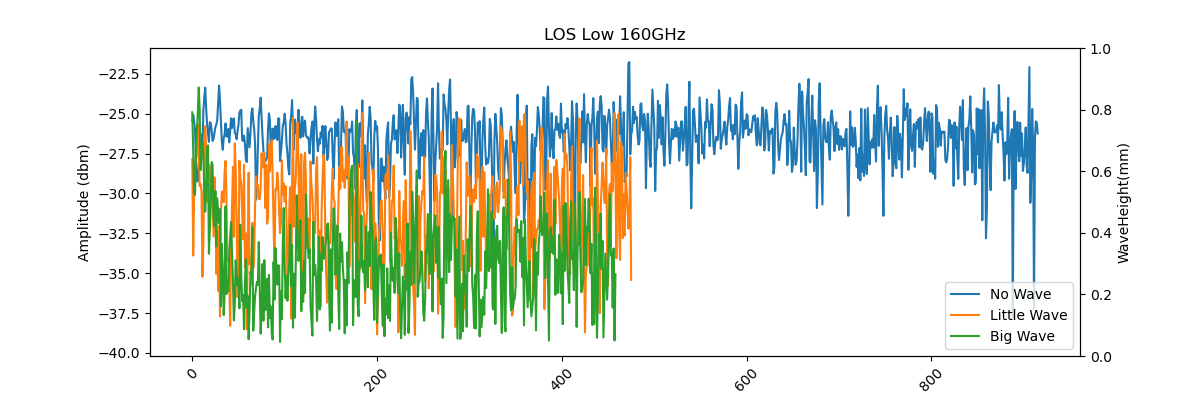
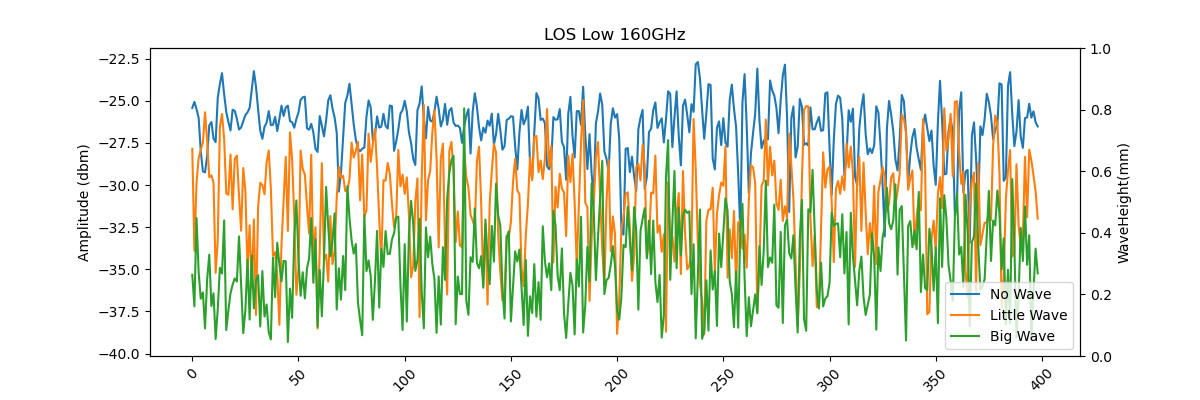
update indoor pool

diff --git a/swimming_pool.py b/swimming_pool.py
@@ -165,18 +165,18 @@ def read_all_data():
 
 
 def plot_data_list(data_list, title, save_path=None):
-    # make this figure wider
     plt.rcParams['figure.figsize'] = [12, 4]
     fig, ax1 = plt.subplots()
     ax2 = ax1.twinx()
     for k, data in data_list.items():
-        # plt.plot(data[1][1:].str.split().str.get(1), data[4][1:], label=k)
         if "Time" in data:
             ax2.plot(data["Time"][1:], data["Value"][1:], label=k)
         else:
-            ax1.plot(data[0][1:], data[4][1:], label=k)
+            # 创建一个从0开始的新索引序列
+            x_values = np.arange(len(data[4][1:]))
+            ax1.plot(x_values, data[4][1:], label=k)
     plt.title(title)
-    ax1.set_xlabel('X')
+    ax1.set_xlabel('Time Index')
     ax1.tick_params(axis='x', rotation=45)
     ax1.set_ylabel('Amplitude (dbm)')
     ax2.set_ylabel('WaveHeight(mm)')
@@ -248,99 +248,99 @@ if __name__ == '__main__':
     pic_base = os.path.join(os.path.dirname(os.path.abspath(__file__)), 'swimming_pool_pic')
     data_dict = read_all_data()
     print(data_dict.keys())
-    los_high_list = {
-        220: {
-            "No Wave":data_dict['los_high_no_wave'][220][:400],
-            "Little Wave": data_dict['los_high_little_wave'][220][:400],
-            "Big Wave": data_dict['los_high_big_wave'][220][:400]
-        },
-        225: {
-            "No Wave": data_dict['los_high_no_wave'][225][:400],
-            "Little Wave": data_dict['los_high_little_wave'][225][:400],
-            "Big Wave": data_dict['los_high_big_wave'][225][:400]
-        },
-        229: {
-            "No Wave": data_dict['los_high_no_wave'][229][:400],
-            "Little Wave": data_dict['los_high_little_wave'][229][:400],
-            "Big Wave": data_dict['los_high_big_wave'][229][:400]
-        }
-    }
-    plot_data_list(los_high_list[220], "LOS High 220GHz", os.path.join(pic_base, "los_high_220.png"))
-    plot_data_list(los_high_list[225], "LOS High 225GHz", os.path.join(pic_base, "los_high_225.png"))
-    plot_data_list(los_high_list[229], "LOS High 229GHz", os.path.join(pic_base, "los_high_229.png"))
-
-    nlos_high_list = {
-        220: {
-            "No Wave": data_dict['nlos_high_no_wave'][220][:400],
-            "Little Wave": data_dict['nlos_high_little_wave'][220][100:],
-            "Big Wave": data_dict['nlos_high_big_wave'][220][100:]
-        },
-        225: {
-            "No Wave": data_dict['nlos_high_no_wave'][225][:400],
-            "Little Wave": data_dict['nlos_high_little_wave'][225][0:400],
-            "Big Wave": data_dict['nlos_high_big_wave'][225][220:600]
-        },
-        229: {
-            "No Wave": data_dict['nlos_high_no_wave'][229][:400],
-            "Little Wave": data_dict['nlos_high_little_wave'][229][0:400],
-            "Big Wave": data_dict['nlos_high_big_wave'][229][150:550]
-        }
-    }
-    plot_data_list(nlos_high_list[220], "NLOS High 220GHz", os.path.join(pic_base, "nlos_high_220.png"))
-    plot_data_list(nlos_high_list[225], "NLOS High 225GHz", os.path.join(pic_base, "nlos_high_225.png"))
-    plot_data_list(nlos_high_list[229], "NLOS High 229GHz", os.path.join(pic_base, "nlos_high_229.png"))
-
-    # nlos_high_400m_list = {
+    # los_high_list = {
     #     220: {
-    #         "No Wave": data_dict['nlos_high_400m'][220][0],
-    #         "Little Wave": data_dict['nlos_high_400m'][220][1]
+    #         "No Wave":data_dict['los_high_no_wave'][220][:400],
+    #         "Little Wave": data_dict['los_high_little_wave'][220][:400],
+    #         "Big Wave": data_dict['los_high_big_wave'][220][:400]
     #     },
-    #     225: data_dict['nlos_high_400m'][225],
-    #     229: data_dict['nlos_high_400m'][229]
+    #     225: {
+    #         "No Wave": data_dict['los_high_no_wave'][225][:400],
+    #         "Little Wave": data_dict['los_high_little_wave'][225][:400],
+    #         "Big Wave": data_dict['los_high_big_wave'][225][:400]
+    #     },
+    #     229: {
+    #         "No Wave": data_dict['los_high_no_wave'][229][:400],
+    #         "Little Wave": data_dict['los_high_little_wave'][229][:400],
+    #         "Big Wave": data_dict['los_high_big_wave'][229][:400]
+    #     }
     # }
-    nlos_high_people_swimmming_list = {
-        "220-1": data_dict['nlos_high_400m'][220][0],
-        "220-2": data_dict['nlos_high_400m'][220][1],
-        "225": data_dict['nlos_high_400m'][225],
-        "229": data_dict['nlos_high_400m'][229]
-    }
-    wave_height_data = pd.read_excel(os.path.join(os.path.dirname(os.path.abspath(__file__)), "swimming_pool_wave_height", "wave_height_data.xlsx"))
-
-    plot_data_list(nlos_high_people_swimmming_list, "NLOS High 400m People Swimming", os.path.join(pic_base, "nlos_high_400m_people_swimming.png"))
-    plot_data_list_with_wave_height(
-        {"220-1": data_dict['nlos_high_400m'][220][0], "wave_height": filter_by_time_range(wave_height_data, data_dict['nlos_high_400m'][220][0][1][1].split()[1]+".000", data_dict['nlos_high_400m'][220][0][1][len(data_dict['nlos_high_400m'][220][0][1])-1].split()[1]+".000")},
-        "NLOS High 400m People Swimming 220-1",
-        data_dict['nlos_high_400m'][220][0][1][1] + ".000",
-        os.path.join(pic_base, "nlos_high_400m_people_swimming_220-1.png"))
-    plot_data_list_with_wave_height(
-        {"220-2": data_dict['nlos_high_400m'][220][1], "wave_height": filter_by_time_range(wave_height_data, data_dict['nlos_high_400m'][220][1][1][1].split()[1]+".000", data_dict['nlos_high_400m'][220][1][1][len(data_dict['nlos_high_400m'][220][1][1])-1].split()[1]+".000")},
-        "NLOS High 400m People Swimming 220-2",
-        data_dict['nlos_high_400m'][220][1][1][1] + ".000",
-        os.path.join(pic_base, "nlos_high_400m_people_swimming_220-2.png"))
-    plot_data_list_with_wave_height(
-        {"225": data_dict['nlos_high_400m'][225], "wave_height": filter_by_time_range(wave_height_data, data_dict['nlos_high_400m'][225][1][1].split()[1]+".000", data_dict['nlos_high_400m'][225][1][len(data_dict['nlos_high_400m'][225][1])-1].split()[1]+".000")},
-        "NLOS High 400m People Swimming 225",
-        data_dict['nlos_high_400m'][225][1][1] + ".000", os.path.join(pic_base, "nlos_high_400m_people_swimming_225.png"))
-    plot_data_list_with_wave_height(
-        {"229": data_dict['nlos_high_400m'][229], "wave_height": filter_by_time_range(wave_height_data, data_dict['nlos_high_400m'][229][1][1].split()[1]+".000", data_dict['nlos_high_400m'][229][1][len(data_dict['nlos_high_400m'][229][1])-1].split()[1]+".000")},
-        "NLOS High 400m People Swimming 229",
-        data_dict['nlos_high_400m'][229][1][1] + ".000", os.path.join(pic_base, "nlos_high_400m_people_swimming_229.png"))
+    # plot_data_list(los_high_list[220], "LOS High 220GHz", os.path.join(pic_base, "los_high_220.png"))
+    # plot_data_list(los_high_list[225], "LOS High 225GHz", os.path.join(pic_base, "los_high_225.png"))
+    # plot_data_list(los_high_list[229], "LOS High 229GHz", os.path.join(pic_base, "los_high_229.png"))
+    #
+    # nlos_high_list = {
+    #     220: {
+    #         "No Wave": data_dict['nlos_high_no_wave'][220][:400],
+    #         "Little Wave": data_dict['nlos_high_little_wave'][220][100:],
+    #         "Big Wave": data_dict['nlos_high_big_wave'][220][100:]
+    #     },
+    #     225: {
+    #         "No Wave": data_dict['nlos_high_no_wave'][225][:400],
+    #         "Little Wave": data_dict['nlos_high_little_wave'][225][0:400],
+    #         "Big Wave": data_dict['nlos_high_big_wave'][225][220:600]
+    #     },
+    #     229: {
+    #         "No Wave": data_dict['nlos_high_no_wave'][229][:400],
+    #         "Little Wave": data_dict['nlos_high_little_wave'][229][0:400],
+    #         "Big Wave": data_dict['nlos_high_big_wave'][229][150:550]
+    #     }
+    # }
+    # plot_data_list(nlos_high_list[220], "NLOS High 220GHz", os.path.join(pic_base, "nlos_high_220.png"))
+    # plot_data_list(nlos_high_list[225], "NLOS High 225GHz", os.path.join(pic_base, "nlos_high_225.png"))
+    # plot_data_list(nlos_high_list[229], "NLOS High 229GHz", os.path.join(pic_base, "nlos_high_229.png"))
+    #
+    # # nlos_high_400m_list = {
+    # #     220: {
+    # #         "No Wave": data_dict['nlos_high_400m'][220][0],
+    # #         "Little Wave": data_dict['nlos_high_400m'][220][1]
+    # #     },
+    # #     225: data_dict['nlos_high_400m'][225],
+    # #     229: data_dict['nlos_high_400m'][229]
+    # # }
+    # nlos_high_people_swimmming_list = {
+    #     "220-1": data_dict['nlos_high_400m'][220][0],
+    #     "220-2": data_dict['nlos_high_400m'][220][1],
+    #     "225": data_dict['nlos_high_400m'][225],
+    #     "229": data_dict['nlos_high_400m'][229]
+    # }
+    # wave_height_data = pd.read_excel(os.path.join(os.path.dirname(os.path.abspath(__file__)), "swimming_pool_wave_height", "wave_height_data.xlsx"))
+    #
+    # plot_data_list(nlos_high_people_swimmming_list, "NLOS High 400m People Swimming", os.path.join(pic_base, "nlos_high_400m_people_swimming.png"))
+    # plot_data_list_with_wave_height(
+    #     {"220-1": data_dict['nlos_high_400m'][220][0], "wave_height": filter_by_time_range(wave_height_data, data_dict['nlos_high_400m'][220][0][1][1].split()[1]+".000", data_dict['nlos_high_400m'][220][0][1][len(data_dict['nlos_high_400m'][220][0][1])-1].split()[1]+".000")},
+    #     "NLOS High 400m People Swimming 220-1",
+    #     data_dict['nlos_high_400m'][220][0][1][1] + ".000",
+    #     os.path.join(pic_base, "nlos_high_400m_people_swimming_220-1.png"))
+    # plot_data_list_with_wave_height(
+    #     {"220-2": data_dict['nlos_high_400m'][220][1], "wave_height": filter_by_time_range(wave_height_data, data_dict['nlos_high_400m'][220][1][1][1].split()[1]+".000", data_dict['nlos_high_400m'][220][1][1][len(data_dict['nlos_high_400m'][220][1][1])-1].split()[1]+".000")},
+    #     "NLOS High 400m People Swimming 220-2",
+    #     data_dict['nlos_high_400m'][220][1][1][1] + ".000",
+    #     os.path.join(pic_base, "nlos_high_400m_people_swimming_220-2.png"))
+    # plot_data_list_with_wave_height(
+    #     {"225": data_dict['nlos_high_400m'][225], "wave_height": filter_by_time_range(wave_height_data, data_dict['nlos_high_400m'][225][1][1].split()[1]+".000", data_dict['nlos_high_400m'][225][1][len(data_dict['nlos_high_400m'][225][1])-1].split()[1]+".000")},
+    #     "NLOS High 400m People Swimming 225",
+    #     data_dict['nlos_high_400m'][225][1][1] + ".000", os.path.join(pic_base, "nlos_high_400m_people_swimming_225.png"))
+    # plot_data_list_with_wave_height(
+    #     {"229": data_dict['nlos_high_400m'][229], "wave_height": filter_by_time_range(wave_height_data, data_dict['nlos_high_400m'][229][1][1].split()[1]+".000", data_dict['nlos_high_400m'][229][1][len(data_dict['nlos_high_400m'][229][1])-1].split()[1]+".000")},
+    #     "NLOS High 400m People Swimming 229",
+    #     data_dict['nlos_high_400m'][229][1][1] + ".000", os.path.join(pic_base, "nlos_high_400m_people_swimming_229.png"))
 
     los_low_list = {
         140: {
-            "No Wave": data_dict['los_low_no_wave'][140],
-            "Little Wave": data_dict['los_low_little_wave'][140],
-            "Big Wave": data_dict['los_low_big_wave'][140]
+            "No Wave": data_dict['los_low_no_wave'][140][:400],
+            "Little Wave": data_dict['los_low_little_wave'][140][:400],
+            "Big Wave": data_dict['los_low_big_wave'][140][50:400]
         },
         120: {
-            "No Wave": data_dict['los_low_no_wave'][120],
-            "Little Wave": data_dict['los_low_little_wave'][120],
-            "Big Wave": data_dict['los_low_big_wave'][120]
+            "No Wave": data_dict['los_low_no_wave'][120][:400],
+            "Little Wave": data_dict['los_low_little_wave'][120][:400],
+            "Big Wave": data_dict['los_low_big_wave'][120][100:450]
         },
         160: {
-            "No Wave": data_dict['los_low_no_wave'][160],
-            "Little Wave": data_dict['los_low_little_wave'][160],
-            "Big Wave": data_dict['los_low_big_wave'][160]
+            "No Wave": data_dict['los_low_no_wave'][160][:400],
+            "Little Wave": data_dict['los_low_little_wave'][160][:400],
+            "Big Wave": data_dict['los_low_big_wave'][160][50:450]
         }
     }
     plot_data_list(los_low_list[140], "LOS Low 140GHz", os.path.join(pic_base, "los_low_140.png"))
@@ -349,19 +349,19 @@ if __name__ == '__main__':
 
     nlos_low_list = {
         140: {
-            "No Wave": data_dict['nlos_low_no_wave'][140],
-            "Little Wave": data_dict['nlos_low_little_wave'][140],
-            "Big Wave": data_dict['nlos_low_big_wave'][140]
+            "No Wave": data_dict['nlos_low_no_wave'][140][100:500],
+            "Little Wave": data_dict['nlos_low_little_wave'][140][100:450],
+            "Big Wave": data_dict['nlos_low_big_wave'][140][100:450]
         },
         120: {
-            "No Wave": data_dict['nlos_low_no_wave'][120],
-            "Little Wave": data_dict['nlos_low_little_wave'][120],
-            "Big Wave": data_dict['nlos_low_big_wave'][120]
+            "No Wave": data_dict['nlos_low_no_wave'][120][:400],
+            "Little Wave": data_dict['nlos_low_little_wave'][120][:400],
+            "Big Wave": data_dict['nlos_low_big_wave'][120][100:450]
         },
         160: {
-            "No Wave": data_dict['nlos_low_no_wave'][160],
-            "Little Wave": data_dict['nlos_low_little_wave'][160],
-            "Big Wave": data_dict['nlos_low_big_wave'][160]
+            "No Wave": data_dict['nlos_low_no_wave'][160][:400],
+            "Little Wave": data_dict['nlos_low_little_wave'][160][50:450],
+            "Big Wave": data_dict['nlos_low_big_wave'][160][50:450]
         }
     }
     plot_data_list(nlos_low_list[140], "NLOS Low 140GHz", os.path.join(pic_base, "nlos_low_140.png"))
